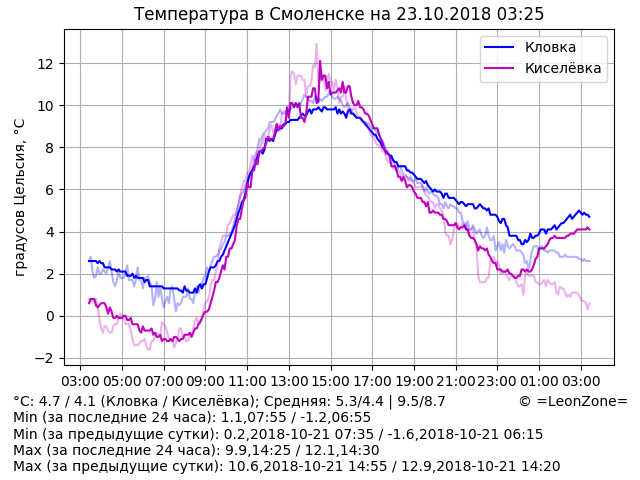
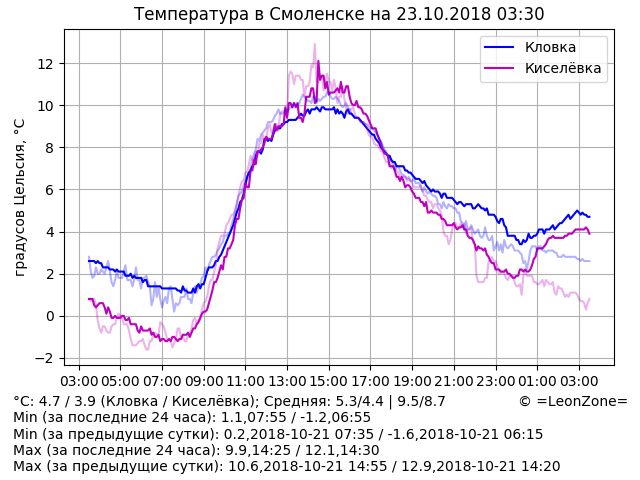
Update data

diff --git a/index.html b/index.html
@@ -14,7 +14,7 @@
 	<p align="center"><script>document.write("<img src=\"graph.png?rnd="+Math.random()+"\" alt=\"Температура в Смоленске\" align=\"middle\" width=\"640\" height=\"480\" />")</script>
 	<p hidden="true">
 <!-- textinfo -->
-°C: 4.7 / 4.1 (Кловка / Киселёвка); Средняя: 5.3/4.4 | 9.5/8.7
+°C: 4.7 / 3.9 (Кловка / Киселёвка); Средняя: 5.3/4.4 | 9.5/8.7
 Min (за последние 24 часа): 1.1,07:55 / -1.2,06:55
 Min (за предыдущие сутки): 0.2,2018-10-21 07:35 / -1.6,2018-10-21 06:15
 Max (за последние 24 часа): 9.9,14:25 / 12.1,14:30
